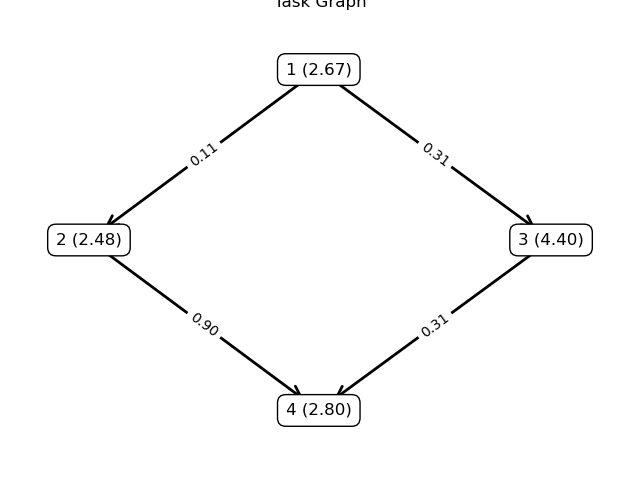
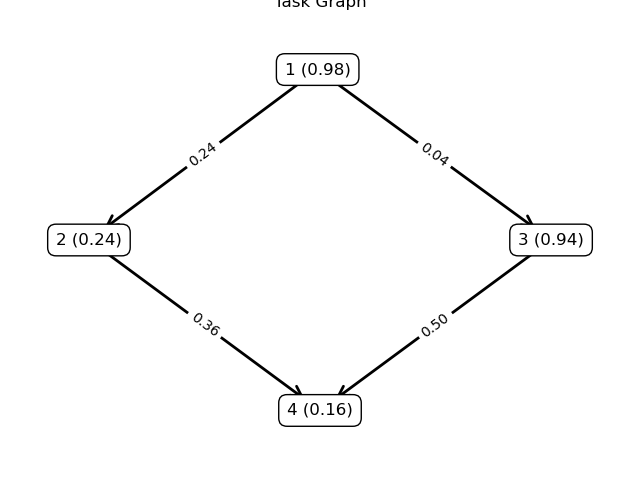
Updated main.py in examples

diff --git a/examples/hbmct/main.py b/examples/hbmct/main.py
@@ -1,6 +1,7 @@
 import itertools
 from saga.schedulers.hbmct import HbmctScheduler
 from saga.utils.draw import draw_gantt, draw_network, draw_task_graph
+
 import networkx as nx
 import numpy as np
 import matplotlib.pyplot as plt
@@ -9,12 +10,14 @@ import pathlib
 
 thisdir = pathlib.Path(__file__).parent.absolute()
 
+
 def main():
+    # greate a diamond-task graph with random task weights between 0 and 1
     task_graph = nx.DiGraph()
     task_graph.add_nodes_from([1, 2, 3, 4])
     task_graph.add_edges_from([(1, 2), (1, 3), (2, 4), (3, 4)])
     for node in task_graph.nodes:
-        task_graph.nodes[node]['weight'] = np.random.uniform(low = 2, high= 5)
+        task_graph.nodes[node]['weight'] = np.random.rand()
     for edge in task_graph.edges:
         task_graph.edges[edge]['weight'] = np.random.rand()
 
@@ -24,7 +27,7 @@ def main():
     for node in network.nodes:
         network.nodes[node]['weight'] = np.random.rand()
     for (src, dst) in itertools.product(network.nodes, network.nodes):
-        # print(f"Adding edge {src} -> {dst}")
+        print(f"Adding edge {src} -> {dst}")
         if src != dst:
             network.add_edge(src, dst, weight=np.random.rand())
         else:
@@ -32,7 +35,8 @@ def main():
 
     scheduler = HbmctScheduler()
     schedule = scheduler.schedule(network, task_graph)
-    # print(schedule)
+
+    # draw the task graph
     ax: plt.Axes = draw_task_graph(task_graph)
     ax.set_title('Task Graph')
     fig = ax.get_figure()
@@ -42,7 +46,13 @@ def main():
     ax: plt.Axes = draw_network(network)
     ax.set_title('Network')
     fig = ax.get_figure()
-    fig.savefig(thisdir / 'network.png')
+    fig.savefig(thisdir / 'network_rand.png')
+
+    # draw the schedule
+    fig: Figure = draw_gantt(schedule)
+    fig.update_layout(title='Schedule')
+    fig.write_image(str(thisdir / 'schedule_rand.png'))
+
 
 if __name__ == '__main__':
     main()
